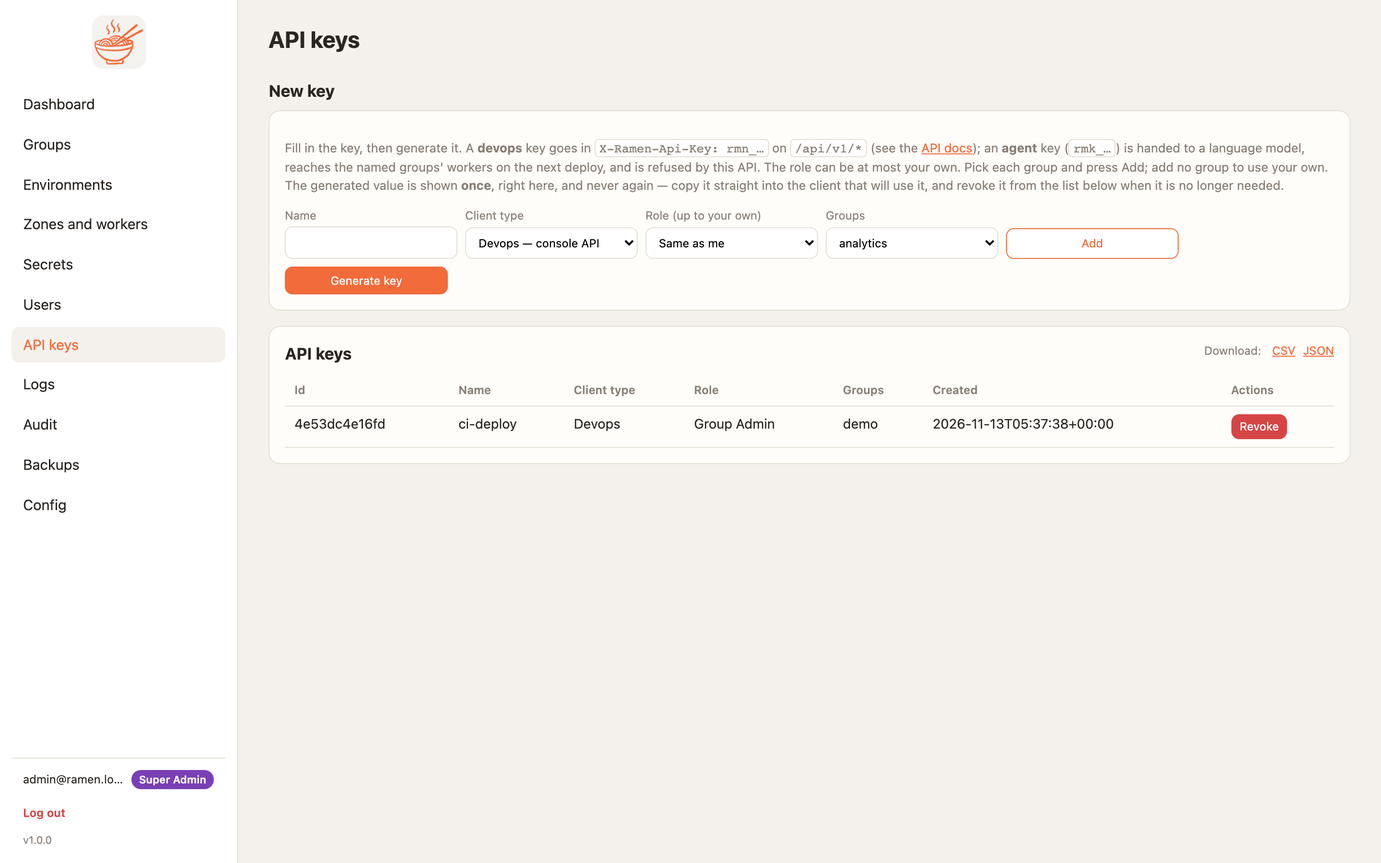
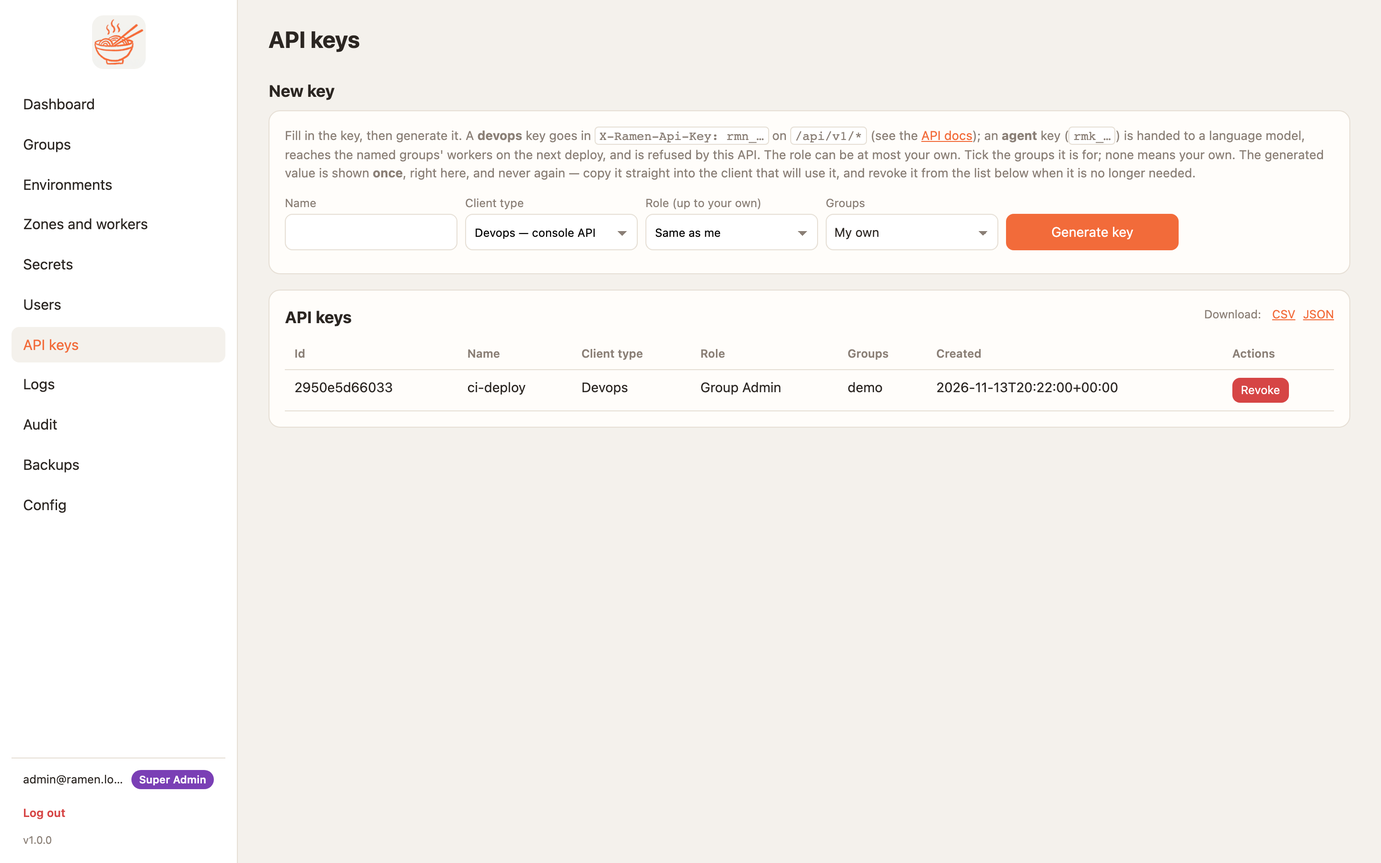
console UI pass: one control height, selects and dropdowns drawn alike, non-wrapping buttons; Worker image card restructured; checkbox dropdowns for API-key groups and warning emails; service-account rules and permissions explained; screenshots

diff --git a/console/src/ramen_console/templates/group.html b/console/src/ramen_console/templates/group.html
@@ -2,7 +2,7 @@
 {% block body %}
 <div class="card"><b>Repo:</b> <code>{{ group.repo_url or '—' }}</code> @ <code>{{ group.ref }}</code> · MCP auth: <span class="badge">{{ group.mcp_auth.mode }}</span>
 {% if can_admin %}<form class="inline" hx-put="{{ base }}/api/v1/groups/{{ group.id }}" hx-ext="json" hx-swap="none">
-<label>Repo URL<input name="repo_url" value="{{ group.repo_url }}"></label><label>Ref<input name="ref" value="{{ group.ref }}"></label>
+<label>Repo URL<input class="wide" name="repo_url" value="{{ group.repo_url }}"></label><label>Ref<input name="ref" value="{{ group.ref }}"></label>
 <label>Fallback GitHub token (stored encrypted, never shown)<input name="github_token" type="password" placeholder="Prefer a GITHUB_TOKEN secret"></label>
 <label>GitHub App installation id (skips the token above)<input name="github_app_installation_id" value="{{ group.github_app_installation_id or '' }}" placeholder="123456"></label><button>Save</button></form>{% endif %}</div>
 
@@ -13,7 +13,7 @@ every zone below. Redis URL is stored encrypted and never shown again.</p>
 <label>Scope Redis URL<input name="redis_url" type="password" placeholder="{{ 'unchanged' if group.redis_scope_url else 'redis://host:6379' }}"></label>
 <label>Per-IP /min<input class="sm" type="number" min="0" name="ip_per_min" value="{{ group.scope_ip_per_min or 0 }}" style="width:6em"></label>
 <label>Per-token /min<input class="sm" type="number" min="0" name="token_per_min" value="{{ group.scope_token_per_min or 0 }}" style="width:6em"></label>
-<button class="act">Save group/environment limits</button></form>{% endif %}</div>
+<button class="act">Save limits</button></form>{% endif %}</div>
 
 <h2>Environments</h2>
 {% if can_admin %}<form class="inline" hx-post="{{ base }}/api/v1/groups/{{ group.id }}/environments" hx-ext="json" hx-swap="none">
@@ -96,11 +96,19 @@ every zone below. Redis URL is stored encrypted and never shown again.</p>
 {% else %}<p class="muted">No environments</p>{% endfor %}
 
 <h2>Worker image</h2>
-<div class="card"><p class="muted">Workers run the release image unless this group pins one. Builds are pushed to the registry ({{ 'make build-worker GROUP=' ~ group.id }}); recording a tag here pins it, and the pin reaches the zones on the next deploy.</p>
-<p>Build on deploy: <span class="badge {{ 'ok' if builds else '' }}">{{ 'on' if builds else 'off' }}</span>{% if can_admin %} <button class="sm ghost" hx-put="{{ base }}/api/v1/groups/{{ group.id }}" hx-ext="json" hx-vals='{"build_image": {{ 'false' if builds else 'true' }}}' hx-swap="none" {{ 'disabled title="This deployment has no image builder (ramen-builder)"' if not builder and not builds }}>Build on deploy: {{ 'on → off' if builds else 'off → on' }}</button>{% endif %} <span class="muted">When on and the repo has a non-empty <code>mcp/requirements.txt</code>, a deploy first builds this group's image — the release image plus those requirements — and the workers start without installing anything. A pinned image below wins over a built one.{% if not builder %} This deployment has no image builder, so it cannot be turned on.{% endif %}</span></p>
-<p>Current: {% if group.image %}<code>{{ group.image.ref }}</code> <span class="muted">(pinned)</span>{% elif group.built_image %}<code>{{ group.built_image.ref }}</code> <span class="muted">(built on deploy)</span>{% else %}<span class="muted">The release image</span>{% endif %}
-{% if p.role == 'super_admin' and group.image %} <button class="sm ghost" hx-delete="{{ base }}/api/v1/groups/{{ group.id }}/images/current" hx-swap="none">Use the release image</button>{% endif %}</p>
-{% if p.role == 'super_admin' %}<form class="inline" hx-post="{{ base }}/api/v1/groups/{{ group.id }}/images" hx-ext="json" hx-swap="none"><label>Tag<input name="tag" required placeholder="registry/path:{{ group.id }}-1"></label><label>Digest (optional)<input name="digest" placeholder="sha256:…"></label><label>Note<input name="note" placeholder="What changed"></label><button>Record image</button></form>{% endif %}
+<div class="card"><table class="kv">
+<tr><th>Running now</th><td>{% if group.image %}<code>{{ group.image.ref }}</code> <span class="badge">pinned</span>{% elif group.built_image %}<code>{{ group.built_image.ref }}</code> <span class="muted">(built on deploy)</span>{% else %}The release image{% endif %}
+{% if p.role == 'super_admin' and group.image %} <button class="act ghost" hx-delete="{{ base }}/api/v1/groups/{{ group.id }}/images/current" hx-swap="none">Use the release image</button>{% endif %}</td></tr>
+<tr><th>Build on deploy</th><td><span class="badge {{ 'ok' if builds else '' }}">{{ 'on' if builds else 'off' }}</span>{% if can_admin %} <button class="act ghost" hx-put="{{ base }}/api/v1/groups/{{ group.id }}" hx-ext="json" hx-vals='{"build_image": {{ 'false' if builds else 'true' }}}' hx-swap="none" {{ 'disabled title="This deployment has no image builder (ramen-builder)"' if not builder and not builds }}>Build on deploy: {{ 'on → off' if builds else 'off → on' }}</button>{% endif %}
+<span class="muted">{% if builder %}Bakes <code>mcp/requirements.txt</code> into this group's image at deploy.{% else %}This deployment has no image builder, so it cannot be turned on.{% endif %}</span></td></tr>
+</table>
+<details class="help"><summary>How the image is chosen</summary><ol>
+<li>A <b>pinned</b> image wins. A super admin pins one by recording its tag below.</li>
+<li>Otherwise, with build on deploy on and a non-empty <code>mcp/requirements.txt</code>, the image the last deploy built (the release image plus those requirements; workers then start without installing anything).</li>
+<li>Otherwise the <b>release image</b>.</li></ol>
+<p class="muted">A change reaches the zones on the next deploy. To build an image yourself: <code>{{ 'make build-worker GROUP=' ~ group.id }}</code>, push it, then pin its tag.</p></details>
+{% if p.role == 'super_admin' %}<h3>Pin an image</h3><form class="inline" hx-post="{{ base }}/api/v1/groups/{{ group.id }}/images" hx-ext="json" hx-swap="none"><label>Tag<input name="tag" required placeholder="registry/path:{{ group.id }}-1"></label><label>Digest (optional)<input name="digest" placeholder="sha256:…"></label><label>Note<input name="note" placeholder="What changed"></label><button>Record image</button></form>{% endif %}
+<h3>History</h3>
 <table><tr><th>Image</th><th>Note</th><th>Recorded</th><th>By</th><th>Pinned</th><th></th></tr>
 {% for i in images %}<tr><td><code>{{ i.ref or i.tag }}</code>{% if i.source == 'build' %} <span class="badge {{ 'error' if i.status == 'failed' else '' }}">{{ 'build failed' if i.status == 'failed' else 'built' }}</span>{% endif %}</td><td>{{ i.note or '—' }}</td><td>{{ i.created }}</td><td>{{ i.created_by or '—' }}</td>
 <td>{% if i.current or i.in_use %}<span class="badge ok">In use</span>{% else %}<span class="muted">—</span>{% endif %}</td>
@@ -112,7 +120,8 @@ every zone below. Redis URL is stored encrypted and never shown again.</p>
 <p class="muted">Telemetry is on for this console (endpoint <code>{{ otel.endpoint or '—' }}</code>). When consent is required, this group's tools, prompts and resources are served only to a caller who accepted the telemetry notice: a person accepts it on the sign-in consent page, an agent with a group key is asked once by its MCP client (2026-07-28 elicitation). Callers that can do neither are refused. Takes effect on the next deploy.{% if not otel.enabled %} Telemetry is currently off, so nobody is asked.{% endif %}</p></div>{% endif %}
 
 {% if can_admin %}<h2>Service-account permissions</h2>
-<div class="card"><p class="muted">Approved permissions per zone are bound to the zone's service account (least privilege, F6.5). A group admin requests a permission for a zone, a super admin approves it, and the console binds the matching cloud roles (GCP IAM / AWS IAM) to that zone's identity — revoking takes them away again. <b>Scope</b> names the resources the permission is for: leave it empty (or <code>*</code>) and <code>bucket.*</code> covers the group's own area of the groups bucket and <code>secrets.*</code> the group's secrets; name buckets or secrets (<code>bucket-a, bucket-b</code>) and the binding is on those alone. Permissions whose cloud roles are project-wide (logs, metrics, queues, …) record the scope but cannot enforce it. On GCP the console's identity manages IAM only on the groups bucket: to scope to another bucket, grant it <code>roles/storage.admin</code> on that bucket first (the approval tells you if it is missing).</p>
+<div class="card"><p class="muted">Each zone runs as its own service account with only what is approved here. A group admin requests a permission for a zone; a super admin approves it and the console grants the matching cloud roles. Revoking takes them away again.</p>
+<details class="help"><summary>What Scope means</summary><p>Scope names the resources the permission is for. Empty or <code>*</code>: <code>bucket.*</code> covers the group's own area of the groups bucket and <code>secrets.*</code> the group's secrets. Named (<code>bucket-a, bucket-b</code>): the grant is on those alone. Permissions whose cloud roles are project-wide (logs, metrics, queues, …) record the scope but cannot enforce it. On GCP the console manages IAM only on the groups bucket: to scope to another bucket, grant the console <code>roles/storage.admin</code> on it first (the approval tells you if that is missing).</p></details>
 <table><tr><th>Zone</th><th>Service account</th><th>Approved permissions</th></tr>{% for z in zones %}{% set scopes = workers[z.id].sa_scopes or {} %}<tr><td>{{ z.id }}</td><td>{{ workers[z.id].service_account or '—' }}</td>
 <td>{% for q in workers[z.id].sa_permissions or [] %}<span class="badge ok">{{ q }}{% if scopes.get(q) and scopes[q] != ['*'] %}: {{ scopes[q]|join(', ') }}{% endif %}</span>{% if p.role == 'super_admin' %} <button class="sm danger" hx-delete="{{ base }}/api/v1/groups/{{ group.id }}/zones/{{ z.id }}/permissions/{{ q }}" hx-confirm="Take {{ q }} away from zone {{ z.id }}?" hx-swap="none">Revoke permission</button>{% endif %} {% else %}—{% endfor %}</td></tr>{% endfor %}</table>
 {% if can_admin %}<form class="inline" hx-post="{{ base }}/api/v1/requests" hx-ext="json" hx-vals='{"group": "{{ group.id }}"}' hx-swap="none"><label>Zone<select name="zone">{% for z in zones %}<option>{{ z.id }}</option>{% endfor %}</select></label>

diff --git a/console/src/ramen_console/templates/config.html b/console/src/ramen_console/templates/config.html
@@ -65,9 +65,9 @@
 {% else %}<tr><td colspan="5" class="muted">No OAuth clients registered</td></tr>{% endfor %}</table>
 <p class="muted">Clients discover the flow at <code>/.well-known/oauth-authorization-server</code>; a worker points them here from <code>/.well-known/oauth-protected-resource</code>.</p></div>
 <div class="card" id="telemetry"><h2 style="margin-top:0">Telemetry (OpenTelemetry)</h2><p class="muted">When on, every worker exports one span per MCP call and call/error counters, and the console one span per deploy, as OTLP/HTTP to the endpoint below — tool name, timing and outcome, never arguments, results or credentials. Workers pick the setting up on their next deploy. Connected agents are told the <b>client</b> endpoint and headers (in their OAuth token answer and in <code>server/discover</code>) so their own telemetry lands in the same place; they are never given the headers Ramen itself sends. Header values are write-only and stored encrypted. A group admin can then require each person's consent on the group page.</p>
-<table class="settings">
-<tr><th>Telemetry</th><td><span class="badge {{ 'ok' if otel.enabled else '' }}">{{ 'on' if otel.enabled else 'off' }}</span></td>
-<td><form class="inline" hx-put="{{ base }}/api/v1/config/otel" hx-ext="json" hx-vals='{"enabled": {{ 'false' if otel.enabled else 'true' }}}' hx-swap="none"><button class="act {{ 'danger' if otel.enabled else '' }}">Telemetry: {{ 'on → off' if otel.enabled else 'off → on' }}</button></form></td></tr>
+<table class="kv">
+<tr><th>Telemetry</th><td><span class="badge {{ 'ok' if otel.enabled else '' }}">{{ 'on' if otel.enabled else 'off' }}</span>
+<form class="inline" hx-put="{{ base }}/api/v1/config/otel" hx-ext="json" hx-vals='{"enabled": {{ 'false' if otel.enabled else 'true' }}}' hx-swap="none"><button class="act {{ 'danger' if otel.enabled else '' }}">Telemetry: {{ 'on → off' if otel.enabled else 'off → on' }}</button></form></td></tr>
 </table>
 <form class="inline" hx-put="{{ base }}/api/v1/config/otel" hx-ext="json" hx-swap="none">
 <label>Endpoint (OTLP/HTTP base URL)<input name="endpoint" value="{{ otel.endpoint }}" placeholder="http://jaeger.ramen-system:4318"></label>
@@ -97,11 +97,7 @@
 <label>TLS<select name="tls"><option value="1" {{ 'selected' if smtp.tls == '1' }}>STARTTLS</option><option value="ssl" {{ 'selected' if smtp.tls == 'ssl' }}>SSL</option><option value="0" {{ 'selected' if smtp.tls == '0' }}>None</option></select></label>
 <button class="act">Save</button></form></div>
 <div class="card"><h2 style="margin-top:0">Server warning/error emails</h2><p class="muted">These users get a digest email when the server logs a warning or error.</p>
-<form class="inline" hx-put="{{ base }}/api/v1/config/notify" hx-ext="json" hx-swap="none"><input type="hidden" name="user_ids" value="">
-<label>User<select id="notify-pick">{% for u in users %}<option value="{{ u.id }}">{{ u.email }}</option>{% else %}<option value="">No users yet</option>{% endfor %}</select></label>
-<button type="button" class="sm ghost" onclick="ramenAddNotify(this)">Add</button>
-<span class="chips" id="notify-chips">{% for u in users %}{% if u.id in notify_user_ids %}<span class="chip" data-notify="{{ u.id }}">{{ u.email }}<input type="hidden" name="user_ids" value="{{ u.id }}"> <button type="button" class="x" onclick="this.parentElement.remove()">Remove</button></span>{% endif %}{% endfor %}</span>
-<button class="act">Save</button></form></div>
+<form class="inline" hx-put="{{ base }}/api/v1/config/notify" hx-ext="json" hx-swap="none">{% set notify_opts = [] %}{% for u in users %}{% set _ = notify_opts.append((u.id, u.email)) %}{% endfor %}{{ multi('user_ids', notify_opts, notify_user_ids, 'notify-users', 'Users', 'Nobody') }}<button class="act">Save</button></form></div>
 <div class="card"><h2 style="margin-top:0">Blocked regions</h2><p class="muted">Cloud regions no zone may be created in or deployed to — data-residency or cost rules. A zone whose region (GCP zone <code>us-west1-a</code> → region <code>us-west1</code>, AWS availability zone <code>eu-west-1a</code> → <code>eu-west-1</code>) is blocked is refused on creation, and an existing zone in a blocked region fails its next deploy with the reason in the job log and a server warning (see the digest above). The Zones page only offers what is left. {{ regions_note }}</p>
 <form class="inline" hx-put="{{ base }}/api/v1/config/regions" hx-ext="json" hx-swap="none">
 {% set ck = cloud_kind() %}{% for prov in ([ck] if ck in ('gcp', 'aws', 'azure') else []) %}{% set opts = [] %}{% for r in regions[prov] %}{% set _ = opts.append((r, r)) %}{% endfor %}{{ multi(prov, opts, blocked_regions[prov], 'blocked-' ~ prov, cloud_label(prov) ~ ' regions blocked', 'None blocked') }}{% else %}<p class="muted">This console runs the local (compose) stack: no cloud regions to block.</p>{% endfor %}
@@ -110,7 +106,12 @@
 <form class="inline" hx-put="{{ base }}/api/v1/config/drift" hx-ext="json" hx-swap="none"><label>Repeat rate (%)<input type="number" min="0" max="100" name="warn_pct" value="{{ drift.warn_pct }}" style="width:6em"></label><button class="act">Save threshold</button></form></div>
 <div class="card"><h2 style="margin-top:0">Service-account permission catalogue</h2><table><tr><th>permission</th><th>GCP</th><th>AWS</th><th>Azure</th><th></th></tr>{% for q in permissions %}<tr><td><code>{{ q.permission }}</code></td><td>{{ q.gcp|join(', ') }}</td><td>{{ q.aws|join(', ') }}</td><td>{{ (q.azure or [])|join(', ') }}</td><td class="muted">{{ q.desc }}</td></tr>{% endfor %}</table></div>
 <div class="card"><h2 style="margin-top:0">Effective RAMEN_* environment</h2><table>{% for k, v in env.items() %}<tr><td><code>{{ k }}</code></td><td>{{ v }}</td></tr>{% endfor %}</table></div>
-<div class="card"><h2 style="margin-top:0">Super-admin service-account rules</h2><p class="muted">Group admins cannot add restrictions that clash with these. Deny wins; when a rule set has allow rules, a permission must match one of them.</p>
+<div class="card"><h2 style="margin-top:0">Super-admin service-account rules</h2><p class="muted">The outer limit on what any group's zone service account may ever be granted. Group admins request permissions for their zones (group page → Service-account permissions); a request a rule here denies is refused, and group admins cannot add their own restrictions that clash with these.</p>
+<details class="help"><summary>How the rules combine</summary><ul>
+<li><b>Deny</b> always wins: a permission that matches any deny rule is refused.</li>
+<li>With no <b>allow</b> rules, every other permission in the catalogue may be requested. Once there is one allow rule, a permission must match an allow rule.</li>
+<li>Pick a permission from the catalogue, or type a pattern: <code>bucket.*</code> matches every bucket permission, <code>*</code> everything.</li>
+<li>Rules apply to new requests and approvals; a permission approved earlier stays until it is revoked on the group page.</li></ul></details>
 <table><tr><th>Effect</th><th>Permission</th><th>Actions</th></tr>
 {% for q in rules %}<tr><td>{{ q.effect|capitalize }}</td><td><code>{{ q.permission }}</code></td>
 <td><div class="row-actions"><button class="sm danger act" hx-put="{{ base }}/api/v1/config/sa-rules" hx-ext="json" hx-vals='{{ tojson({"rules": rules[:loop.index0] + rules[loop.index:]}) }}' hx-swap="none">Remove</button></div></td></tr>

diff --git a/console/src/ramen_console/templates/api_keys.html b/console/src/ramen_console/templates/api_keys.html
@@ -1,14 +1,14 @@
-{% extends "base.html" %}{% from "partials/table.html" import table %}{% from "partials/group_picker.html" import group_picker %}{% block title %}API keys{% endblock %}
+{% extends "base.html" %}{% from "partials/table.html" import table %}{% from "partials/multi.html" import multi %}{% block title %}API keys{% endblock %}
 {% block body %}
 <h2>New key</h2>
-<div class="card"><p class="muted">Fill in the key, then generate it. A <b>devops</b> key goes in <code>X-Ramen-Api-Key: rmn_…</code> on <code>/api/v1/*</code> (see the <a href="{{ base }}/api/docs">API docs</a>); an <b>agent</b> key (<code>rmk_…</code>) is handed to a language model, reaches the named groups' workers on the next deploy, and is refused by this API. The role can be at most your own. Pick each group and press Add; add no group to use your own. The generated value is shown <b>once</b>, right here, and never again — copy it straight into the client that will use it, and revoke it from the list below when it is no longer needed.</p>
+<div class="card"><p class="muted">Fill in the key, then generate it. A <b>devops</b> key goes in <code>X-Ramen-Api-Key: rmn_…</code> on <code>/api/v1/*</code> (see the <a href="{{ base }}/api/docs">API docs</a>); an <b>agent</b> key (<code>rmk_…</code>) is handed to a language model, reaches the named groups' workers on the next deploy, and is refused by this API. The role can be at most your own. Tick the groups it is for; none means your own. The generated value is shown <b>once</b>, right here, and never again — copy it straight into the client that will use it, and revoke it from the list below when it is no longer needed.</p>
 <form class="inline controls" id="keyform" hx-post="{{ base }}/api/v1/api-keys" hx-ext="json" hx-target="#once" hx-swap="innerHTML">
 <label>Name<input name="name" required></label>
 <label>Client type<select name="client_type"><option value="devops">Devops — console API</option><option value="agent">Agent — language model to worker</option></select></label>
 <label>Role (up to your own)<select name="role"><option value="">Same as me</option><option value="viewer">Viewer</option><option value="group_admin">Group Admin</option>{% if p.role == 'super_admin' %}<option value="super_admin">Super Admin</option>{% endif %}</select></label>
-{{ group_picker(groups, add_class='act ghost') }}
-</form>
-<div class="row-actions"><button class="act" form="keyform">Generate key</button></div><div id="once"></div></div>
+{% set group_opts = [] %}{% for g in groups %}{% set _ = group_opts.append((g.id, g.name)) %}{% endfor %}{{ multi('groups', group_opts, [], 'key-groups', 'Groups', 'My own') }}
+<button class="act">Generate key</button>
+</form><div id="once"></div></div>
 {% macro act(r) %}<button class="sm danger" hx-delete="{{ base }}/api/v1/api-keys/{{ r.id }}" hx-confirm="Revoke key {{ r.name }}?" hx-swap="none">Revoke</button>{% endmacro %}
 {{ table(keys, ['id', 'name', 'client_type', 'role', 'groups', 'created'], u('/api/v1/api-keys'), 'API keys', act) }}
 {% endblock %}

diff --git a/console/src/ramen_console/static/ramen.css b/console/src/ramen_console/static/ramen.css
@@ -114,3 +114,23 @@ table.formtable td .act{width:180px}
 .signin-guide .codebox{border:1px solid var(--line);border-radius:8px;overflow:hidden;background:#fff}
 .signin-guide .codebox-label{font-size:12px;font-weight:600;color:var(--ink);background:var(--bg);padding:6px 10px;border-bottom:1px solid var(--line)}
 .signin-guide .codebox pre{margin:0;padding:10px;white-space:pre-wrap;overflow-wrap:anywhere;border:0;border-radius:0}
+/* 1.0.0 UI pass (the user's screenshots): one control height on every form row, selects drawn like inputs, buttons that
+   never wrap, cards without a gap above their first line, short explainers folded into <details class="help">. */
+:root{--ctl-h:38px}
+.zone-actions,.settings{--ctl-h:30px}
+input:not([type=checkbox]):not([type=radio]):not([type=hidden]),select{height:var(--ctl-h);box-sizing:border-box}
+select{-webkit-appearance:none;appearance:none;background-color:#fff;padding-right:28px;background-image:linear-gradient(45deg,transparent 50%,var(--muted) 50%),linear-gradient(135deg,var(--muted) 50%,transparent 50%);background-position:calc(100% - 15px) 55%,calc(100% - 10px) 55%;background-size:5px 5px;background-repeat:no-repeat}
+select[multiple]{height:auto;background-image:none;padding-right:9px}
+form.inline button,form.inline .btn,.row-actions button,.row-actions .btn,.act{height:var(--ctl-h);box-sizing:border-box;white-space:nowrap;padding-top:0;padding-bottom:0}
+form.inline button:not(.act):not(.sm),form.inline .btn:not(.act){font-size:14px}
+details.multi>summary{height:var(--ctl-h);box-sizing:border-box;display:flex;align-items:center;border-radius:8px}
+.card>:first-child{margin-top:0}
+input.wide{width:360px}
+table.kv{margin:0 0 4px}table.kv th{width:10em;text-align:left;font-weight:500;color:var(--muted);white-space:nowrap;vertical-align:middle}
+table.kv td{vertical-align:middle}table.kv td>*{vertical-align:middle}table.kv form.inline{display:inline-flex;margin:0 0 0 8px}
+details.help{margin:6px 0 10px}details.help>summary{cursor:pointer;color:var(--muted);font-size:13px}details.help ol,details.help ul{margin:6px 0;padding-left:20px}
+details.help p{margin:6px 0}
+#audit-scroll td:first-child,#audit-scroll td:nth-child(3),.ts{white-space:nowrap}
+.act{font-size:14px}.zone-actions .act,.settings .act,.zone-actions button,.settings button{font-size:12px}
+details.multi>summary{padding-right:28px;background-color:#fff;background-image:linear-gradient(45deg,transparent 50%,var(--muted) 50%),linear-gradient(135deg,var(--muted) 50%,transparent 50%);background-position:calc(100% - 15px) 55%,calc(100% - 10px) 55%;background-size:5px 5px;background-repeat:no-repeat}
+details.multi>summary::after{content:none}

diff --git a/console/tests/test_client_type.py b/console/tests/test_client_type.py
@@ -204,11 +204,11 @@ def test_a_group_mcp_key_is_not_accepted_by_the_console_api(app, root):
 
 
 def test_the_page_offers_the_caller_groups_as_a_dropdown(root):
-    """W1 (§14): the list box became a dropdown plus Add; the options are still the groups the caller may grant."""
+    """W1 (§14), 1.0.0: a checkbox dropdown (as on every other multi-value field); the options are still the groups the
+    caller may grant."""
     html = root.get("/api-keys").text
-    assert '<select id="group-pick">' in html and "multiple" not in html
-    assert '<option value="demo">demo</option>' in html
-    assert '<option value="other">other</option>' in html
+    assert 'id="key-groups"' in html and "multiple" not in html and 'id="group-pick"' not in html
+    assert 'name="groups" value="demo"' in html and 'name="groups" value="other"' in html
 
 
 def test_the_listing_shows_group_names_not_a_json_array(root):

diff --git a/console/tests/test_ui_v042.py b/console/tests/test_ui_v042.py
@@ -18,8 +18,8 @@ def cell_of(page: str, needle: str) -> str:
 def test_api_key_groups_are_a_dropdown_that_still_takes_several_groups(demo):
     page = demo.get("/api-keys").text
     assert '<select name="groups" multiple' not in page and "multiple size=" not in page
-    assert 'id="group-pick"' in page and "Add" in page
-    assert 'name="groups"' in page  # the chips post as repeated fields
+    assert 'id="key-groups"' in page  # 1.0.0: the checkbox dropdown, as on every other multi-value field
+    assert 'name="groups"' in page  # the ticked boxes post as repeated fields
 
     r = demo.post("/api/v1/api-keys", json={"name": "two-groups", "groups": ["demo", "other"]})
     assert r.status_code == 201 and sorted(r.json()["groups"]) == ["demo", "other"]

diff --git a/scripts/shots.py b/scripts/shots.py
@@ -320,8 +320,9 @@ def capture(
                         replies.append((r.url, r.status))
 
                 page.on("response", remember)
-                page.select_option("#group-pick", "demo")  # an agent key names its groups (§14 W1)
-                page.get_by_role("button", name="Add").click()
+                page.click("#key-groups > summary")  # an agent key names its groups (§14 W1; a checkbox dropdown since 1.0)
+                page.check("#key-groups input[value=demo]")
+                page.click("#key-groups > summary")
                 page.get_by_role("button", name="Generate key").click()
                 try:
                     page.wait_for_function("document.querySelector('#once').innerText.trim().length > 0", timeout=8000)

diff --git a/console/tests/test_config_page.py b/console/tests/test_config_page.py
@@ -35,7 +35,8 @@ def test_notify_list_accepts_what_the_chip_form_sends(demo):
     uid = make_user(demo, "n@x", "viewer", ["demo"])["id"]
     assert demo.put("/api/v1/config/notify", json={"user_ids": ["", uid]}).json()["user_ids"] == [uid]
     page = demo.get("/config").text
-    assert f'<input type="hidden" name="user_ids" value="{uid}">' in page  # the chip carries its id as a field
+    # 1.0.0: a ticked box in the checkbox dropdown (the empty hidden field still posts "none" as [])
+    assert f'name="user_ids" value="{uid}" checked>' in page and 'id="notify-users"' in page
     assert demo.put("/api/v1/config/notify", json={"user_ids": ""}).json()["user_ids"] == []
 
 
